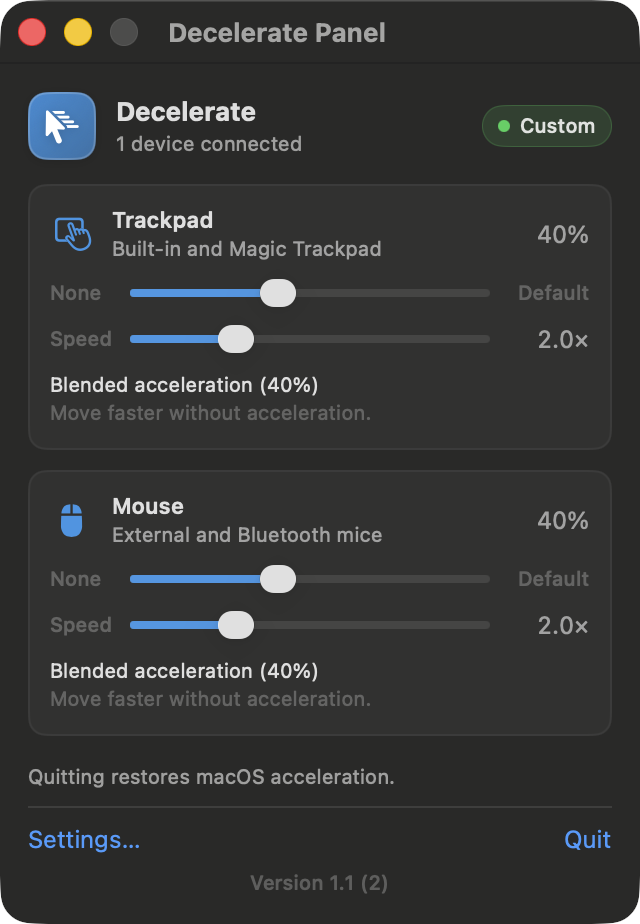
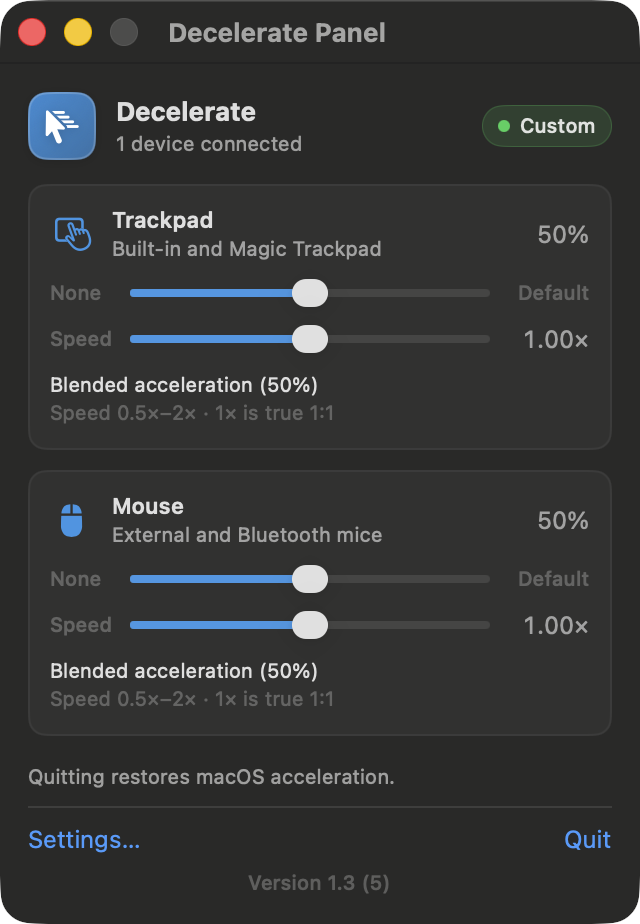
Default to 50% acceleration + 1x speed; speed 0.5x-2x on a log scale (1.3)
- CategoryPreferences defaults: accelerationAmount 0.5, speedMultiplier 1.0
  (legacy/absent values migrate to those defaults; stored speeds clamp to the
  new range).
- Speed slider is now a logarithmic 0.5x-2x scale with 1x exactly in the
  middle (SpeedScale.position/speed helpers), so the default thumb sits at the
  centre.
- UI/docs updated; panel shows 50% / 1.00x by default; version 1.3 (5).

diff --git a/Decelerate/Core/PointerSettings.swift b/Decelerate/Core/PointerSettings.swift
@@ -34,6 +34,23 @@ enum PointerClass: String, CaseIterable, Codable, Identifiable, Hashable {
     }
 }
 
+/// Maps the Speed slider's 0…1 position to the multiplier on a logarithmic
+/// scale, so 1.0× sits exactly in the middle of the 0.5×–2.0× range.
+enum SpeedScale {
+    static let minimumSpeed = 0.5
+    static let maximumSpeed = 2.0
+
+    static func position(for speed: Double) -> Double {
+        let clamped = min(max(speed, minimumSpeed), maximumSpeed)
+        return (log2(clamped) + 1.0) / 2.0
+    }
+
+    static func speed(for position: Double) -> Double {
+        let clamped = min(max(position, 0), 1)
+        return pow(2.0, clamped * 2.0 - 1.0)
+    }
+}
+
 /// User-facing settings for one pointer class.
 struct CategoryPreferences: Codable, Equatable, Hashable {
     /// How much of macOS's pointer acceleration to apply.
@@ -42,19 +59,19 @@ struct CategoryPreferences: Codable, Equatable, Hashable {
     /// pointer the same distance (1:1, like Windows with "Enhance pointer
     /// precision" off). 1 = exactly macOS's own acceleration curve. Values in
     /// between blend the two natively inside the HID pipeline.
-    var accelerationAmount: Double = 0
+    var accelerationAmount: Double = 0.5
 
     /// Pointer speed multiplier for 1:1 movement. macOS's "no acceleration"
     /// passthrough is a geometry-true 1:1 (one device count per 96-dpi point),
     /// which is much slower than an accelerated pointer at ordinary hand speed.
     /// Windows' "Enhance pointer precision off" has a pointer-speed slider; this
     /// is the equivalent. 1.0 = pure physical 1:1.
-    var speedMultiplier: Double = 3.0
+    var speedMultiplier: Double = 1.0
 
     var isLinear: Bool { accelerationAmount <= 0.005 }
     var isNative: Bool { accelerationAmount >= 0.995 }
 
-    init(accelerationAmount: Double = 0, speedMultiplier: Double = 3.0) {
+    init(accelerationAmount: Double = 0.5, speedMultiplier: Double = 1.0) {
         self.accelerationAmount = accelerationAmount
         self.speedMultiplier = speedMultiplier
     }
@@ -75,9 +92,10 @@ struct CategoryPreferences: Codable, Equatable, Hashable {
             // Version 1.0 stored a boolean; true meant "fully linear".
             accelerationAmount = removed ? 0 : 1
         } else {
-            accelerationAmount = 0
+            accelerationAmount = 0.5
         }
-        speedMultiplier = try container.decodeIfPresent(Double.self, forKey: .speedMultiplier) ?? 3.0
+        let decodedSpeed = try container.decodeIfPresent(Double.self, forKey: .speedMultiplier) ?? 1.0
+        speedMultiplier = min(max(decodedSpeed, SpeedScale.minimumSpeed), SpeedScale.maximumSpeed)
     }
 
     func encode(to encoder: Encoder) throws {

diff --git a/Decelerate/UI/Components/PointerClassCard.swift b/Decelerate/UI/Components/PointerClassCard.swift
@@ -6,7 +6,7 @@ import SwiftUI
 /// movement) and macOS's own curve (100%). Because an unaccelerated pointer is
 /// intentionally slower at normal hand speed, a separate Speed control scales
 /// the 1:1 movement — the Windows pointer-speed slider with "Enhance pointer
-/// precision" off.
+/// precision" off. Its 0.5×–2× range is logarithmic so 1× sits in the middle.
 struct PointerClassCard: View {
     let pointerClass: PointerClass
 
@@ -29,7 +29,17 @@ struct PointerClassCard: View {
     }
 
     private var speedText: String {
-        String(format: "%.1f×", speed)
+        String(format: "%.2f×", speed)
+    }
+
+    /// Logarithmic mapping so 1.00× is exactly the middle of the slider.
+    private var speedPositionBinding: Binding<Double> {
+        Binding(
+            get: { SpeedScale.position(for: speed) },
+            set: { position in
+                state.setSpeedMultiplier(SpeedScale.speed(for: position), for: pointerClass)
+            }
+        )
     }
 
     private var accelerationCaption: String {
@@ -97,10 +107,10 @@ struct PointerClassCard: View {
                     .frame(width: 34, alignment: .leading)
                     .accessibilityHidden(true)
 
-                Slider(value: state.binding(for: pointerClass).speedMultiplier, in: 0.5...6.0)
+                Slider(value: speedPositionBinding, in: 0...1)
                     .controlSize(.small)
                     .accessibilityLabel("Speed for \(pointerClass.title.lowercased())")
-                    .help("Scales 1:1 movement — 1.0× is geometry-true, 3.0× is the default")
+                    .help("0.5×–2× — 1× in the middle is geometry-true 1:1")
 
                 Text(speedText)
                     .font(.callout)
@@ -112,7 +122,7 @@ struct PointerClassCard: View {
 
             VStack(alignment: .leading, spacing: 1) {
                 Text(accelerationCaption)
-                Text("Move faster without acceleration.")
+                Text("Speed 0.5×–2× · 1× is true 1:1")
                     .foregroundStyle(.tertiary)
             }
             .font(.caption)

diff --git a/Decelerate/UI/SettingsView.swift b/Decelerate/UI/SettingsView.swift
@@ -196,7 +196,7 @@ private struct AboutSettingsTab: View {
                     .fixedSize(horizontal: false, vertical: true)
 
                 DisclosureGroup("How it works", isExpanded: $isShowingHowItWorks) {
-                    Text("Decelerate tells macOS's HID event system how much pointer acceleration to apply: 0% passes raw pointer deltas straight through for exact 1:1 movement, 100% is macOS's own acceleration curve, and intermediate values are a genuine blend of the two. A separate Speed control scales 1:1 movement, since macOS's unaccelerated pointer is intentionally slower at ordinary hand speed (Windows has the same pointer-speed slider with Enhance pointer precision off). No events are intercepted, no permissions are needed, and quitting Decelerate restores the original settings.")
+                    Text("Decelerate tells macOS's HID event system how much pointer acceleration to apply: 0% passes raw pointer deltas straight through for exact 1:1 movement, 100% is macOS's own acceleration curve, and intermediate values are a genuine blend of the two. A separate Speed control (0.5×–2×, with 1× in the middle) scales 1:1 movement, since macOS's unaccelerated pointer is intentionally slower at ordinary hand speed (Windows has the same pointer-speed slider with Enhance pointer precision off). No events are intercepted, no permissions are needed, and quitting Decelerate restores the original settings.")
                         .font(.callout)
                         .foregroundStyle(.secondary)
                         .fixedSize(horizontal: false, vertical: true)

diff --git a/Decelerate/App/AppState.swift b/Decelerate/App/AppState.swift
@@ -162,7 +162,7 @@ final class AppState: ObservableObject {
 
     func setSpeedMultiplier(_ speed: Double, for pointerClass: PointerClass) {
         var value = preferences(for: pointerClass)
-        let clamped = min(max(speed, 0.5), 6)
+        let clamped = min(max(speed, SpeedScale.minimumSpeed), SpeedScale.maximumSpeed)
         guard value.speedMultiplier != clamped else { return }
         value.speedMultiplier = clamped
         setPreferences(value, for: pointerClass)

diff --git a/README.md b/README.md
@@ -3,7 +3,8 @@
 A tiny native macOS menu bar app that **tames pointer acceleration** for the
 built-in trackpad and for mice. At 0% the pointer moves **1:1** with your hand —
 the same feel as Windows with **“Enhance pointer precision” turned off** — and
-you can dial acceleration back in from 0% to macOS's own curve.
+you can dial acceleration back in from 0% to macOS's own curve. It ships at
+**50% acceleration and 1× speed** as a balanced starting point.
 
 No event interception, no kernel extensions, no accessibility permissions, no
 latency. Decelerate works inside macOS's HID event system: it either removes the
@@ -49,9 +50,9 @@ the feature is switched off or the app quits, so macOS is never left patched.
 
 ### Behaviour details
 
-- **Speed** is Decelerate's own slider (0.5×–6×). It scales the 1:1 movement
-  directly, so it works with acceleration fully off — that is the Windows
-  "pointer speed" control. macOS's own Tracking speed still influences the
+- **Speed** is Decelerate's own slider (0.5×–2×, logarithmic with 1× in the
+  middle; default 1×). It scales the 1:1 movement directly, so it works with
+  acceleration fully off — that is the Windows "pointer speed" control. macOS's own Tracking speed still influences the
   shape of the blended macOS curve at 100% and for intermediate amounts.
 - For mice whose acceleration comes from the classic lookup table rather than a
   parametric curve, the amount is applied by scaling the macOS acceleration
@@ -96,14 +97,19 @@ Mac. (macOS will list it under System Settings → General → Login Items.)
 
 Click the cursor icon in the menu bar:
 
-- Toggle **Remove acceleration** for the trackpad and/or the mouse.
+- **Acceleration** per device class: 0% = no acceleration (exact 1:1), 100% =
+  macOS's own curve, intermediate values are a real blend. Default **50%**.
+- **Speed** per device class: **0.5×–2×** on a logarithmic scale with **1× in
+  the middle**; it scales the 1:1 movement — the Windows pointer-speed slider
+  with “Enhance pointer precision” off. Default **1×** (geometry-true 1:1;
+  raise it if that feels slow).
 - **Settings…** (⌘,) opens the full window: launch at login, Dock icon,
   connected devices, live HID parameter state, and **Restore System Defaults**.
+- **Quit** (⌘Q) restores macOS acceleration.
 
 | Settings — General | Settings — About |
 |---|---|
 | ![General](docs/settings-general.png) | ![About](docs/settings-about.png) |
-- **Quit** (⌘Q) restores macOS acceleration.
 
 ## Uninstall
 
